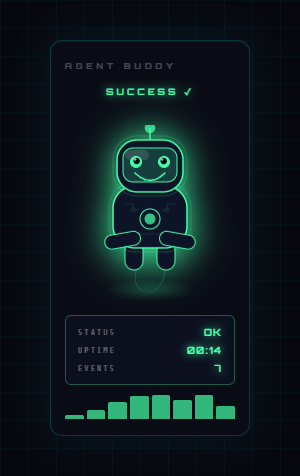
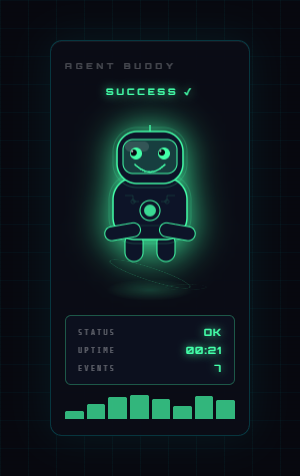
Improve screenshot generation timing for complete animation capture

diff --git a/generate-screenshots.js b/generate-screenshots.js
@@ -84,17 +84,27 @@ if (!fs.existsSync(screenshotsDir)) {
   // Take screenshots by cycling through states
   for (const screenshot of screenshots) {
     try {
-      // Get the SVG element to click (cycles through stages)
-      const svgElement = await page.$('.buddy-svg');
-      
-      if (svgElement && screenshot.clicks > 0) {
+      // Click to cycle through stages
+      if (screenshot.clicks > 0) {
         for (let i = 0; i < screenshot.clicks; i++) {
           await page.click('.buddy-svg');
-          await delay(500);
+          // Longer delay to allow state transitions and animations to complete
+          await delay(1200);
         }
       }
       
-      await delay(500);
+      // Extra delay before capturing to ensure all animations have settled
+      await delay(800);
+      
+      // Wait for any animations to complete by checking if elements are stable
+      await page.evaluate(() => {
+        return new Promise(resolve => {
+          // Wait for the next frame and a bit longer for animations
+          requestAnimationFrame(() => {
+            setTimeout(resolve, 400);
+          });
+        });
+      });
       
       // Take the screenshot
       await page.screenshot({
